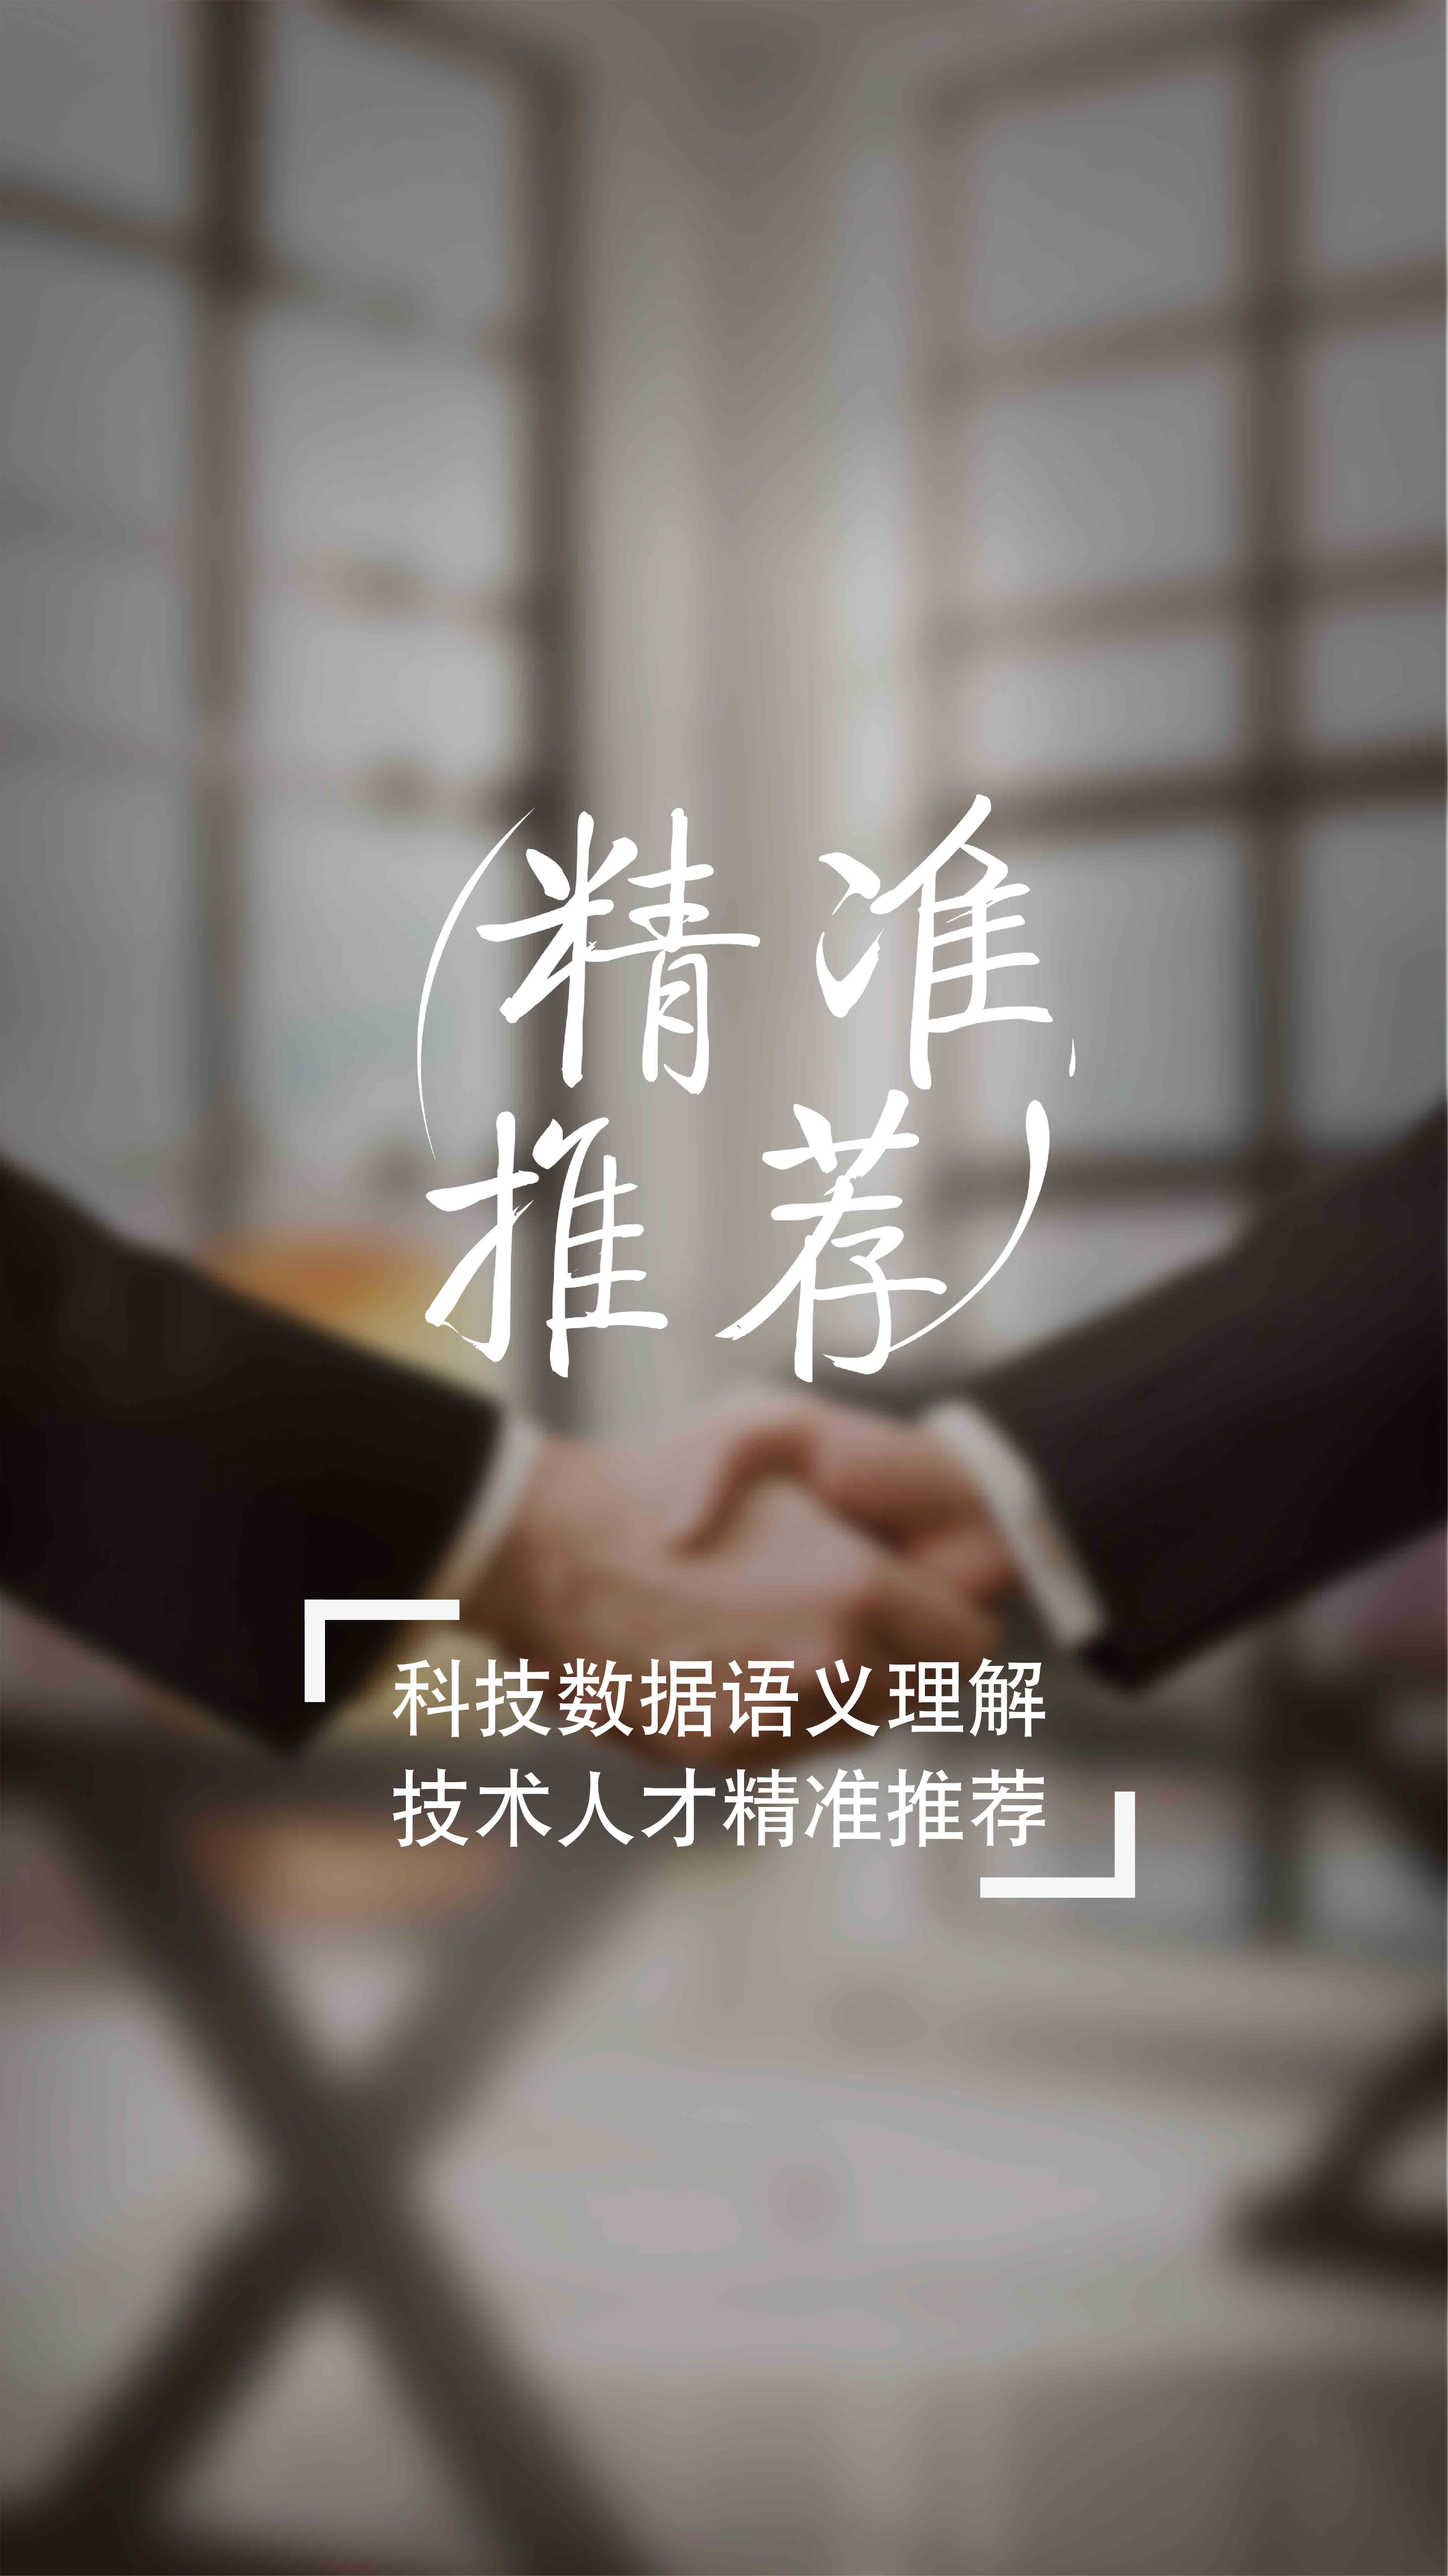
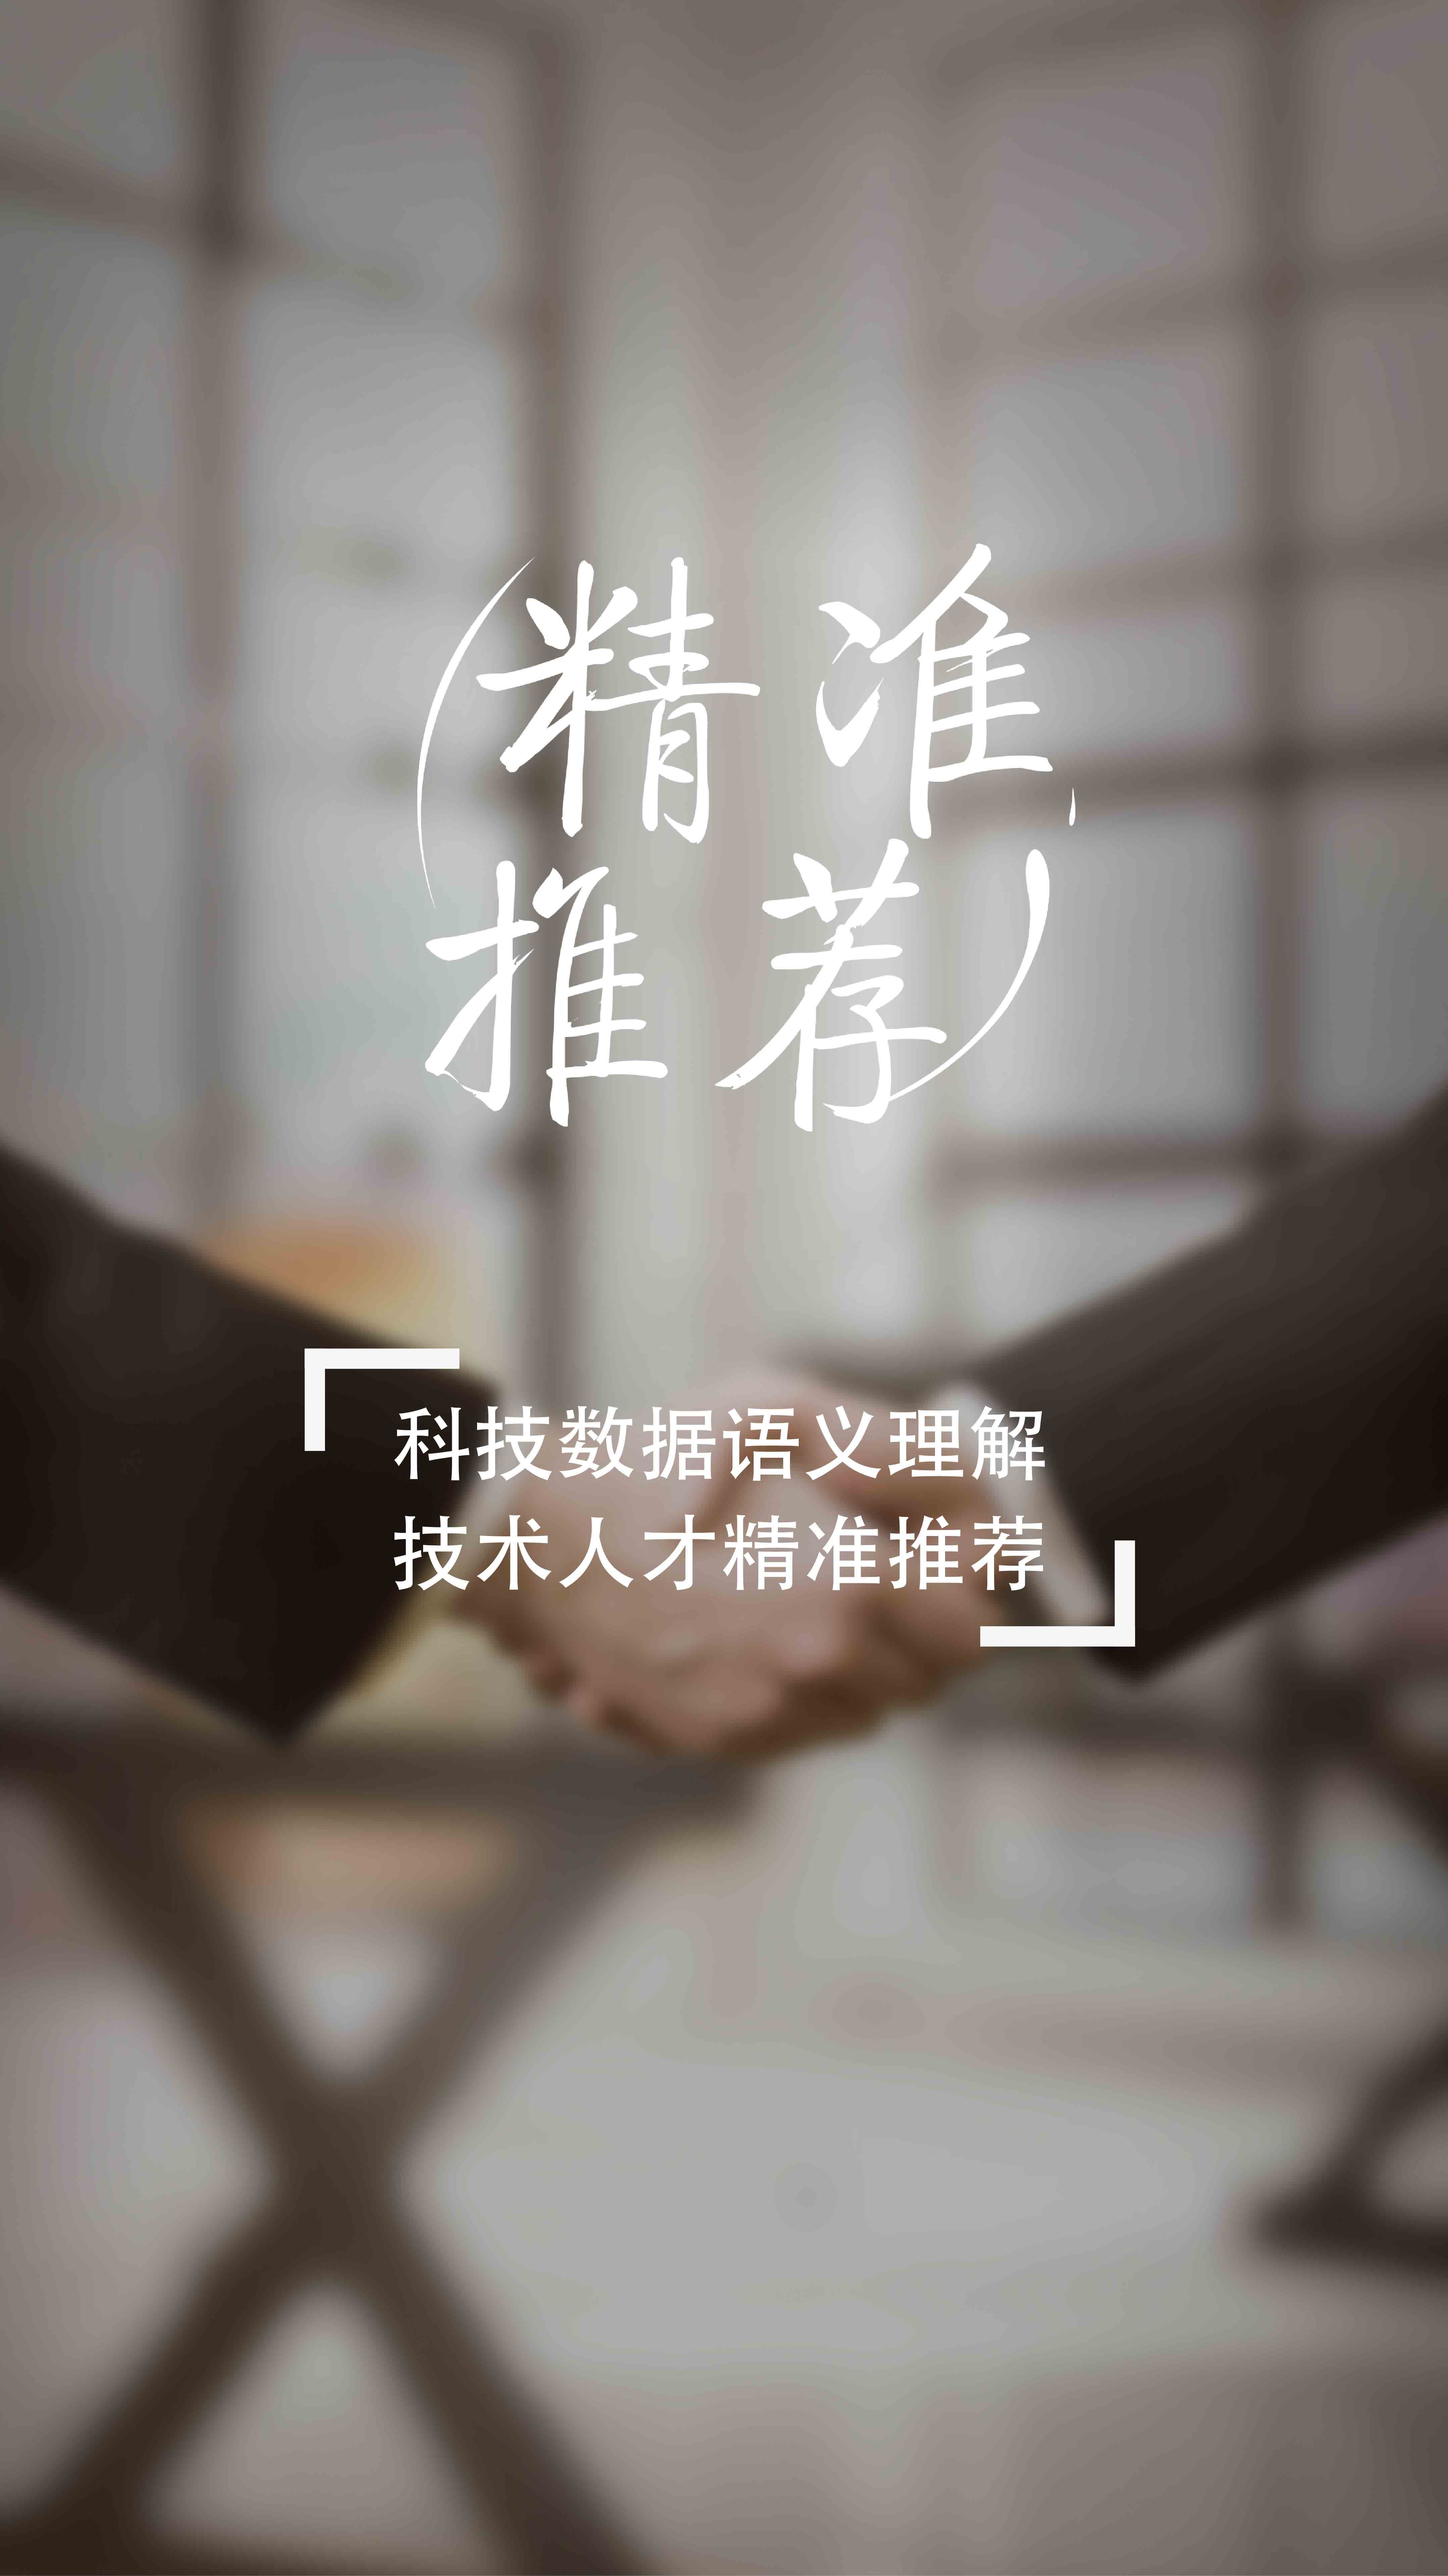
代码优化

diff --git a/src/app/app.component.ts b/src/app/app.component.ts
@@ -15,7 +15,7 @@ declare var window;
 })
 export class MyApp {
 
-  rootPage = Wizard;
+  // rootPage = Wizard;
   @ViewChild('myNav') nav: NavController
 
   constructor(platform: Platform, 
@@ -23,14 +23,17 @@ export class MyApp {
     splashScreen: SplashScreen,
     public storage: Storage,
     public jPushPlugin: JPushService) {
-
     this.storage.get('token').then((token) => {
       if(token){
           this.nav.setRoot(TabsPage);
+      }else{
+          this.nav.setRoot(Wizard);
       }
     })
 
     platform.ready().then(() => {
+      console.log('02')
+     
       statusBar.styleDefault();
       splashScreen.hide();
       this.initJPush();
@@ -57,6 +60,16 @@ export class MyApp {
         this.storage.set('news',newsList);
       }
       else this.storage.set('news',lastnew);
+    })
+  }
+
+  ionViewDidLoad(){
+    console.log('........')
+    this.nav.setRoot(TabsPage);
+    this.storage.get('token').then((token) => {
+      if(token){
+          this.nav.setRoot(TabsPage);
+      }
     })
   }
 

diff --git a/src/pages/wizard/wizard.html b/src/pages/wizard/wizard.html
@@ -1,13 +1,13 @@
 <ion-slides (ionSlideDidChange)="slideChanged()">
-  <ion-slide>
-    <img src="assets/img/s1.jpg" >
+  <ion-slide class="slide-1">
+    <!-- <img src="assets/img/s1.jpg" > -->
   </ion-slide>
-  <ion-slide>
-    <img src="assets/img/s2.jpg" >
+  <ion-slide class="slide-2">
+    <!-- <img src="assets/img/s2.jpg" > -->
   </ion-slide>
-  <ion-slide>
+  <ion-slide class="slide-3">
     <!-- <p (click)="jump()"><span>跳过</span></p> -->
-    <img src="assets/img/s3.jpg" >
-    <button ion-button outline (click)="jump()">点击开启</button>
+    <!-- <img src="assets/img/s3.jpg" > -->
+    <button ion-button outline type="button" tappable (click)="jump()">点击开启</button>
   </ion-slide>
 </ion-slides>

diff --git a/src/pages/me/me.ts b/src/pages/me/me.ts
@@ -66,7 +66,7 @@ export class MePage {
             this.storage.set('user', this.params.data);
         },(err) =>{
             this.storage.set('token', null);
-            this.navCtrl.setRoot(LoginPage, {type: "MePage"})
+            this.navCtrl.push(LoginPage, {type: "MePage"})
             //if(err)  this.authService.showError("登录过期，请重新登录")//this.navCtrl.push(LoginPage, {type: "MePage"})
         });
     }
@@ -92,7 +92,7 @@ export class MePage {
             if(user){
                 this.params.data = user;
             }else{
-                this.navCtrl.setRoot(LoginPage, {type: "MePage"})
+                this.navCtrl.push(LoginPage, {type: "MePage"})
             }
         })
     }

diff --git a/src/pages/wizard/wizard.scss b/src/pages/wizard/wizard.scss
@@ -8,13 +8,29 @@ wizard{
   }
 
   .button-md{
-    margin-top: -250px;
+      margin-top: 100%;
   }
 
   .button-outline-md {
       border-color: #fefefe;
       color: #fefefe;
       width: 200px;
+  }
+
+  .slide-1{
+    background-image: url(../assets/img/s1.jpg);
+    background-position: center center;
+    background-size: cover;
+  }
+  .slide-2{
+    background-image: url(../assets/img/s2.jpg);
+    background-position: center center;
+    background-size: cover;
+  }
+  .slide-3{
+    background-image: url(../assets/img/s3.jpg);
+    background-position: center center;
+    background-size: cover;
   }
 
 }

diff --git a/src/components/background/background.scss b/src/components/background/background.scss
@@ -1,6 +1,7 @@
 background {
 	img {
     	max-width: 102%;
+    	position: fixed;
 	}
 	.card-background-page {
 		// ion-card {
